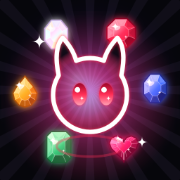
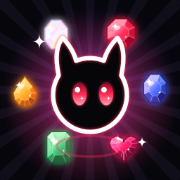
更新が反映されない問題の修正とアプリアイコンの更新 (#11)
- Service Worker：同一サイトのファイルは HTTP キャッシュを通さずサーバーに更新確認
  （GitHub Pages の 10 分キャッシュで古い版が返っていた）
- SW を updateViaCache: none で登録し、アプリ復帰時にも更新確認
- 新しい版が入ったら自動で再読み込み（プレイ中・リザルト中はタイトルに戻ったとき）
- アプリアイコンを現在の自機（黒地）で再生成し、アイコン URL にバージョンを付与
- Service Worker のキャッシュ版数を v12 に更新

Claude-Session: https://claude.ai/code/session_016MZDhN6e4Uv2CERYujMbVV

Changed region(s): [[0.3056, 0.2778, 0.6944, 0.7222], [0.3333, 0.25, 0.3611, 0.2778]]

diff --git a/sw.js b/sw.js
@@ -1,5 +1,5 @@
 // オフラインでも あそべるように キャッシュする
-const CACHE = 'jewel-survivor-v11';
+const CACHE = 'jewel-survivor-v12';
 const ASSETS = [
   './', './index.html', './css/style.css', './manifest.webmanifest',
   './js/main.js', './js/game.js', './js/weapons.js', './js/data.js', './js/render.js', './js/fx.js',
@@ -9,7 +9,7 @@ const ASSETS = [
 ];
 
 self.addEventListener('install', (e) => {
-  e.waitUntil(caches.open(CACHE).then((c) => c.addAll(ASSETS)).then(() => self.skipWaiting()));
+  e.waitUntil(caches.open(CACHE).then((c) => c.addAll(ASSETS.map((u) => new Request(u, { cache: 'no-cache' })))).then(() => self.skipWaiting()));
 });
 
 self.addEventListener('activate', (e) => {
@@ -21,8 +21,14 @@ self.addEventListener('activate', (e) => {
 // ネットワーク優先（更新がすぐ反映される）→ だめなら キャッシュ
 self.addEventListener('fetch', (e) => {
   if (e.request.method !== 'GET') return;
+  // 同じサイトのファイルはブラウザの HTTP キャッシュを通さず、必ずサーバーに更新を確認する
+  // （GitHub Pages は 10 分キャッシュされるため、これがないと更新直後に古い版が出る）
+  const sameOrigin = new URL(e.request.url).origin === location.origin;
+  const req = sameOrigin
+    ? fetch(e.request.url, { cache: 'no-cache', credentials: 'same-origin', redirect: e.request.mode === 'navigate' ? 'manual' : 'follow' })
+    : fetch(e.request);
   e.respondWith(
-    fetch(e.request)
+    req
       .then((res) => {
         const host = new URL(e.request.url).host;
         const cacheable = new URL(e.request.url).origin === location.origin || host === 'fonts.googleapis.com' || host === 'fonts.gstatic.com';

diff --git a/js/main.js b/js/main.js
@@ -28,6 +28,7 @@ const DEBUG = {
 };
 
 let game = null;
+let reloadPending = false; // 新しい版の反映待ち
 
 // iOS: ダブルタップ ズーム / ピンチ ぼうし
 document.addEventListener('gesturestart', (e) => e.preventDefault());
@@ -246,6 +247,7 @@ function finishRun(res, cleared) {
 }
 
 function toTitle() {
+  if (reloadPending) { location.reload(); return; }
   game = null;
   window.__game = null;
   input.enabled = false;
@@ -291,6 +293,16 @@ if (DEBUG.autostart) startGame(DEBUG.autostart in GEMS ? DEBUG.autostart : 'ruby
 else UI.showTitle();
 
 // オフライン用 サービスワーカー
+// 新しい版が入ったら自動で再読み込み（プレイ中・リザルト中ならタイトルに戻ったときに）
 if ('serviceWorker' in navigator && location.protocol === 'https:') {
-  navigator.serviceWorker.register('sw.js').catch(() => {});
+  const hadController = !!navigator.serviceWorker.controller;
+  navigator.serviceWorker.register('sw.js', { updateViaCache: 'none' }).then((reg) => {
+    // アプリに戻ってきたときにも更新を確認する（iOS のホーム画面アプリは再読み込みされないため）
+    document.addEventListener('visibilitychange', () => { if (document.visibilityState === 'visible') reg.update().catch(() => {}); });
+  }).catch(() => {});
+  navigator.serviceWorker.addEventListener('controllerchange', () => {
+    if (!hadController) return; // 初回インストール時は不要
+    if (game) reloadPending = true;
+    else location.reload();
+  });
 }

diff --git a/index.html b/index.html
@@ -12,8 +12,8 @@
   <meta name="description" content="宝石の力で闇を殲滅する、光とパーティクル全開のヴァンサバライク。">
   <title>JEWEL SURVIVOR</title>
   <link rel="manifest" href="manifest.webmanifest">
-  <link rel="apple-touch-icon" href="icons/icon-180.png">
-  <link rel="icon" type="image/png" href="icons/icon-192.png">
+  <link rel="apple-touch-icon" href="icons/icon-180.png?v=2">
+  <link rel="icon" type="image/png" href="icons/icon-192.png?v=2">
   <link rel="preconnect" href="https://fonts.googleapis.com">
   <link rel="preconnect" href="https://fonts.gstatic.com" crossorigin>
   <link href="https://fonts.googleapis.com/css2?family=Rajdhani:wght@500;600;700&family=Zen+Kaku+Gothic+New:wght@500;700;900&display=swap" rel="stylesheet">
